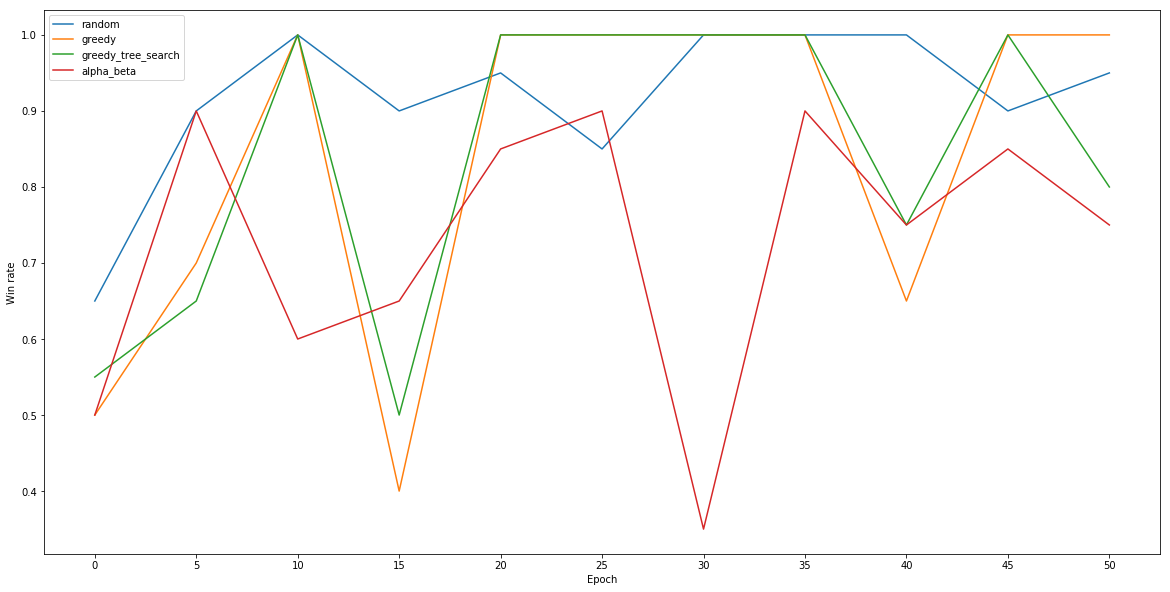
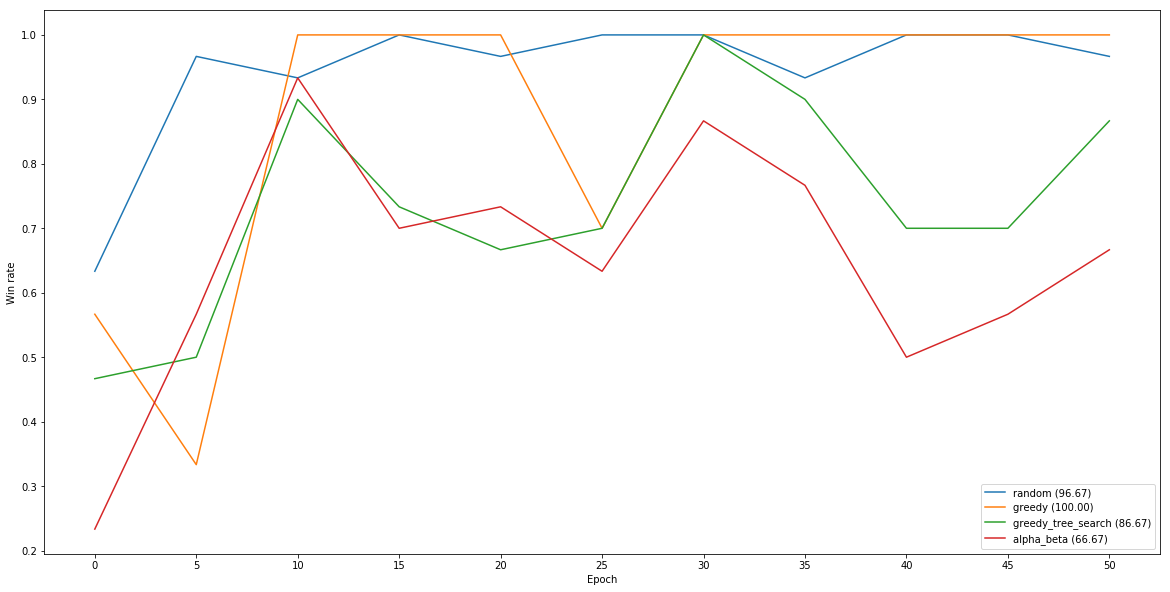
Readme

diff --git a/README.md b/README.md
@@ -1,12 +1,12 @@
 # Othello RL
 An implementation of self-play reinforcement learning algorithm for 8x8 Othello. The algorithm uses
-Monte Carlo Tree Search to improve it's policy in every turn and then updates the policy so that
+Monte Carlo Tree Search to improve its policy in every turn and then updates the policy so that
 actions taken by MCTS have higher probability if they led to winning the game.
 
 ### Results
-The agent was trained for approximately 13 hours on a node with 32 CPU cores. In every iteration it
-played 96 games against a randomly sampled version of past agent parameters. 30 MCTS traversals per
-turn were used and the game tree was reset after every game. To update agent parameters I used clipped
-PPO loss.
-![Win Rates](./win_rates.png)
+The agent was trained for approximately 24 hours on a node with 32 CPU cores. In every iteration it
+played 160 games against a randomly sampled version of past agent parameters. This prevents agent's policy
+from overfittnig. 50 MCTS traversals per turn were used and the game tree was reset after every game.
+To update agent parameters I used clipped PPO loss.
 
+![Win Rates](./win_rates.png)
